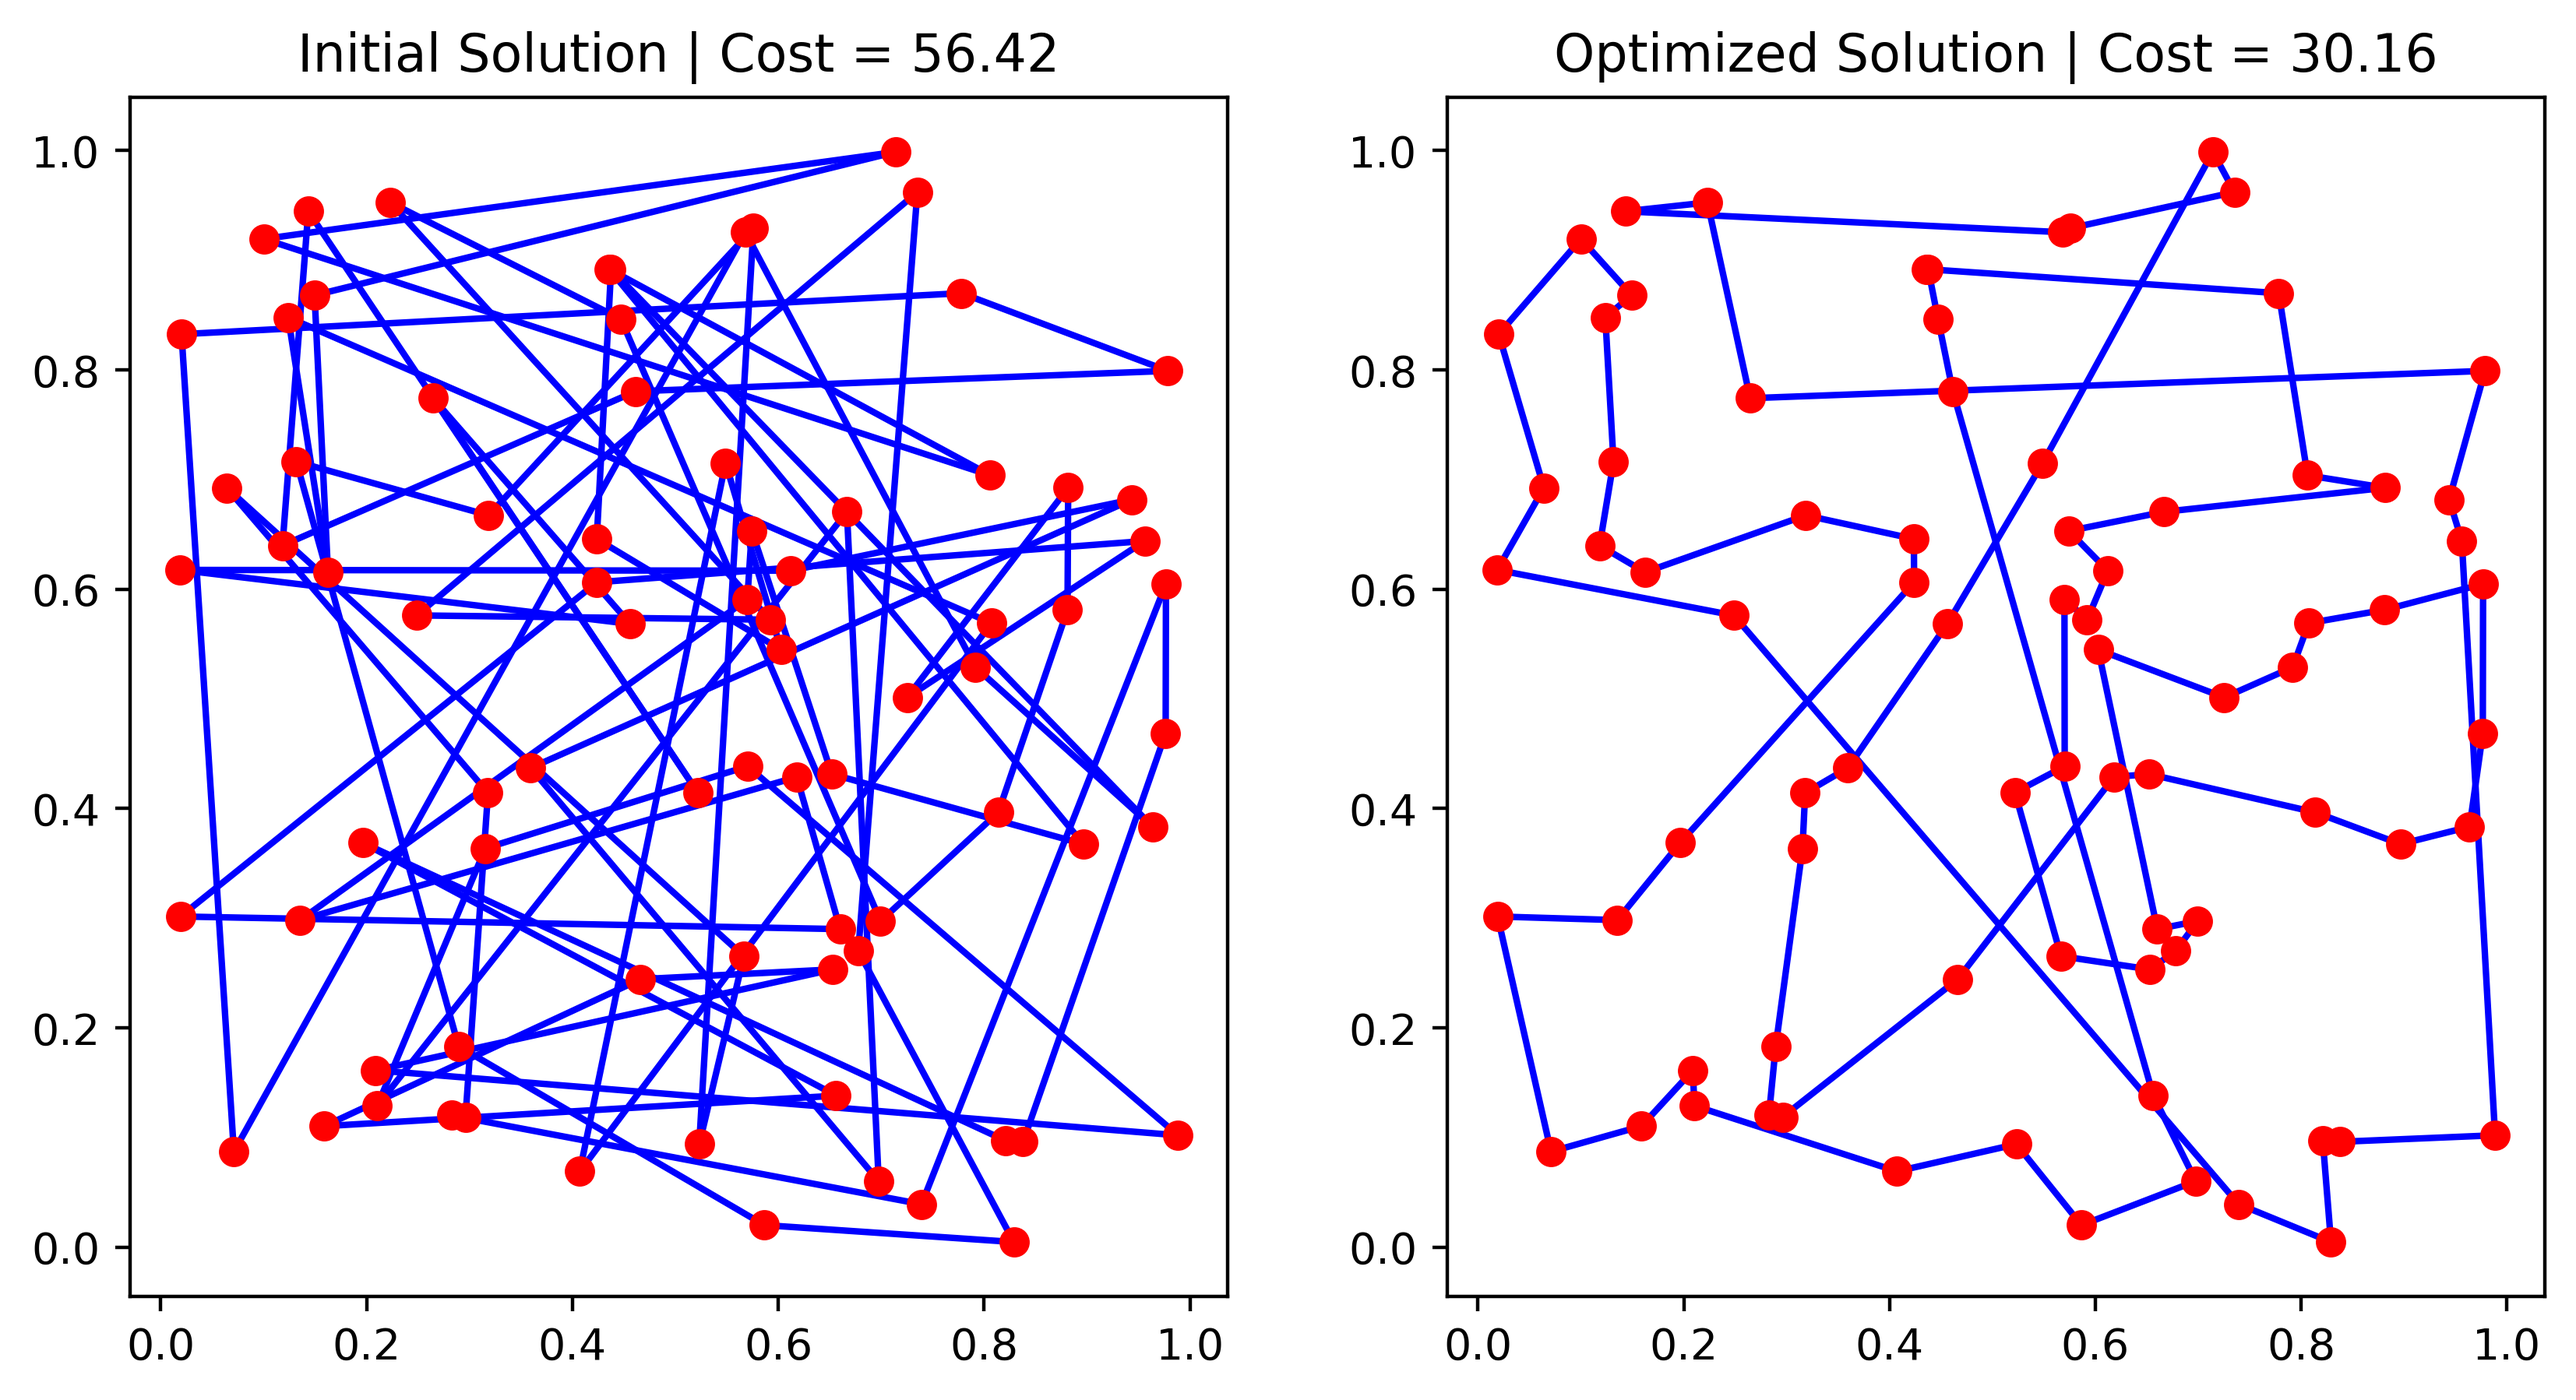
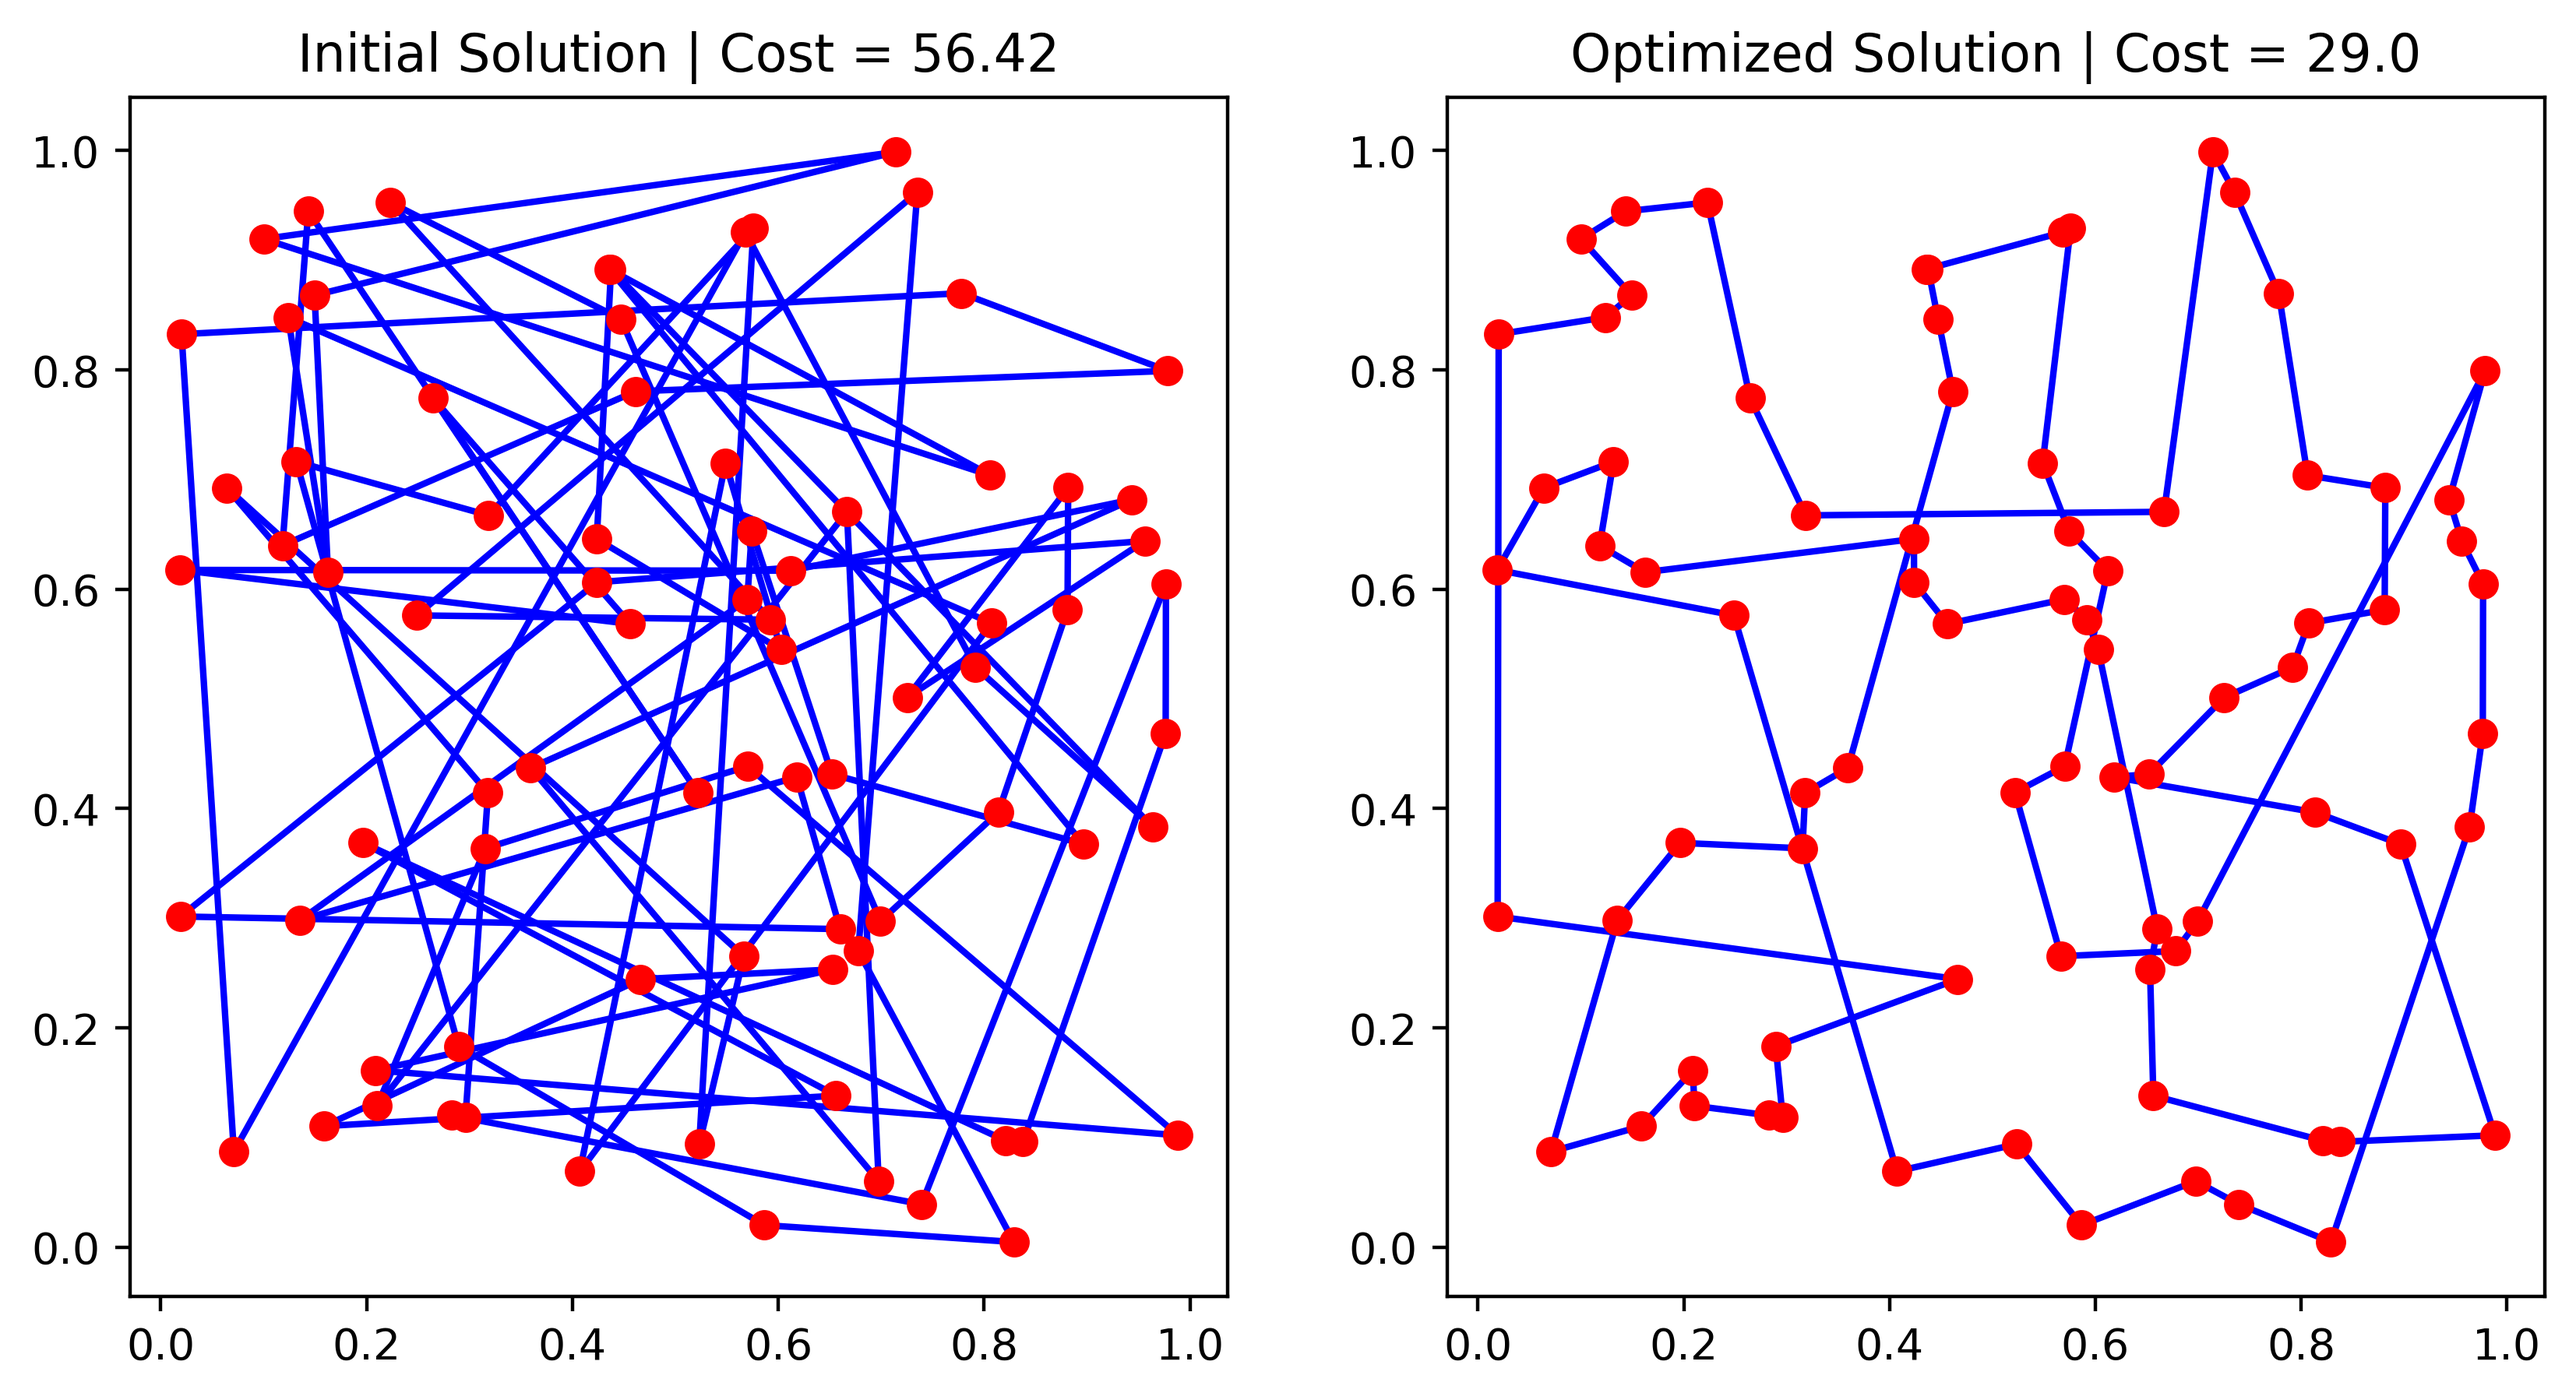
Implemented cost_matrix method of TSP

diff --git a/code/simulated_annealing/simple_simulated_annealing.py b/code/simulated_annealing/simple_simulated_annealing.py
@@ -2,14 +2,12 @@
 # Imports
 ###########################################################################
 # Standard library imports
+import time  # Insert this when you have any local imports
+import numpy as np
+import matplotlib.pyplot as plt
 import os
 import sys
 sys.path.insert(0, os.getcwd())
-
-import time
-import numpy as np
-import matplotlib.pyplot as plt
-
 
 ###########################################################################
 # Code
@@ -17,6 +15,55 @@ import matplotlib.pyplot as plt
 OUTPUT_DIR = os.path.join(
     os.getcwd(), 'output', 'figures', 'simulated_annealing'
 )
+
+
+def get_cost_between_two_points(p1, p2, cost_matrix):
+    '''
+        Calculates the cost between two nodes from the cost matrix.
+
+        Parameters:
+        -----------
+        p1: (int)
+            Node 1 - index
+        p2: (int)
+            Node 2 - index
+        cost_matrix: (Square Array)
+
+        Returns:
+        --------
+        cost: (float)
+            Cost between two nodes
+    '''
+    # Calculate cost
+    cost = cost_matrix[p1][p2]
+    return cost
+
+
+def get_total_cost(node_list, cost_matrix):
+    '''
+        Calculates the cost of the entire node list.
+
+        Parameters:
+        -----------
+        node_list: (List)
+            List of nodes which are to be traversed
+        cost_matrix: (Square Array)
+
+        Returns:
+        --------
+        total_cost: (float)
+            Total cost of the entire node list
+    '''
+    cost = 0.0
+    for first, second in zip(node_list[:-1], node_list[1:]):
+        # Distance between successive exhibits are added
+        cost += get_cost_between_two_points(first, second, cost_matrix)
+
+    # Distance between the first and the last exhibits is added
+    cost += get_cost_between_two_points(
+        node_list[0], node_list[-1], cost_matrix
+    )
+    return cost
 
 
 class Coordinate:
@@ -192,9 +239,11 @@ class SimpleSimulatedAnnealing:
             Number of epochs
         N: (int)
             Number of iterations per epoch
+        **kwargs:
+            Additional arguments for `func0`
     '''
 
-    def __init__(self, func0, x0, T0, alpha, epochs, N):
+    def __init__(self, func0, x0, T0, alpha, epochs, N, **kwargs):
         '''
             Parameters:
             -----------
@@ -210,6 +259,8 @@ class SimpleSimulatedAnnealing:
                 Number of epochs
             N: (int)
                 Number of iterations per epoch
+            **kwargs:
+                Additional arguments for `func0`
         '''
         self.func0 = func0
         self.x0 = x0.copy()
@@ -221,7 +272,7 @@ class SimpleSimulatedAnnealing:
         self.len_x0 = len(x0)
 
         # Run Algorithm
-        self.xf, self.cost_hist, self.rt = self.run_algorithm()
+        self.xf, self.cost_hist, self.rt = self.run_algorithm(**kwargs)
 
     def cooling_func(self, T):
         '''
@@ -240,7 +291,7 @@ class SimpleSimulatedAnnealing:
         T_cooled = T * self.alpha
         return T_cooled
 
-    def plot_cost_hist(self):
+    def plot_cost_hist(self, ext=''):
         '''
             Plot the history of cost of the objective function per epoch.
 
@@ -257,11 +308,11 @@ class SimpleSimulatedAnnealing:
         ax1.title.set_text(f'Cost vs Epoch | Runtime: {round(self.rt,1)} s')
         ax1.set(xlabel=r'Epochs $\rightarrow$', ylabel='Cost')
 
-        fname = os.path.join(OUTPUT_DIR, 'SSA_cost_hist.png')
+        fname = os.path.join(OUTPUT_DIR, f'{ext}SSA_cost_hist.png')
         plt.savefig(fname, dpi=400, bbox_inches='tight')
         plt.show()
 
-    def run_algorithm(self):
+    def run_algorithm(self, **kwargs):
         '''
             A simple Simulated Annealing algorithm.
 
@@ -275,7 +326,7 @@ class SimpleSimulatedAnnealing:
                 Runtime of the algorithm in fractional seconds
         '''
         x = self.x0.copy()
-        cost0 = self.func0(x)
+        cost0 = self.func0(x, **kwargs)
         T = self.T0
 
         np.random.seed()  # Reset seed
@@ -298,7 +349,7 @@ class SimpleSimulatedAnnealing:
                 x[e2] = temp
 
                 # Get the new cost
-                cost1 = self.func0(x)
+                cost1 = self.func0(x, **kwargs)
 
                 if cost1 < cost0:
                     cost0 = cost1
@@ -322,18 +373,45 @@ class SimpleSimulatedAnnealing:
 # Main Code
 ###########################################################################
 if __name__ == '__main__':
-
-    # Generate random coordinates
-    initial_coords = Coordinate.random_coordinates_list(80, seed=0)
+    from code.data_input.base_input import BaseInputLoader
 
     # Set-up parameters for the Simulated Annealing Algorithm
-    T0, alpha, outer_N, inner_N = [40, 0.99, 1000, 100]
+    T0, alpha, outer_N, inner_N = [40, 0.99, 1000, 200]
+
+    # ---------------------------------------------------------------------
+    # Generate random coordinates
+    # initial_coords = Coordinate.random_coordinates_list(80, seed=0)
+
+    # Set up Simulated Annealing Class
+    # optim_solution = SimpleSimulatedAnnealing(
+    #     func0=Coordinate.get_total_distance, x0=initial_coords, T0=T0,
+    #     alpha=alpha, epochs=outer_N, N=inner_N
+    # )
+
+    # optim_solution.plot_cost_hist()
+    # Coordinate.plot_solution(initial_coords, optim_solution.xf)
+
+    # ---------------------------------------------------------------------
+
+    # Read data off of standard library
+    fpath = os.path.join(os.getcwd(), 'code', 'data_input', 'test_load_list')
+    loader = BaseInputLoader(fpath)
+
+    fpath = os.path.join(os.getcwd(), 'code', 'data_input', 'test_load_list')
+    loader = BaseInputLoader(fpath)
+    cost_matrix = loader.get_input_test_case(1).get_cost_matrix()
+
+    num_nodes = np.shape(cost_matrix)[0]
+
+    np.random.seed(0)
+    initial_soln = np.random.permutation(np.arange(num_nodes))
+
+    print('Loaded Input!')
 
     # Set up Simulated Annealing Class
     optim_solution = SimpleSimulatedAnnealing(
-        func0=Coordinate.get_total_distance, x0=initial_coords, T0=T0,
-        alpha=alpha, epochs=outer_N, N=inner_N
+        func0=get_total_cost, x0=initial_soln, T0=T0,
+        alpha=alpha, epochs=outer_N, N=inner_N, cost_matrix=cost_matrix
     )
 
-    optim_solution.plot_cost_hist()
-    Coordinate.plot_solution(initial_coords, optim_solution.xf)
+    optim_solution.plot_cost_hist(ext='node_')
